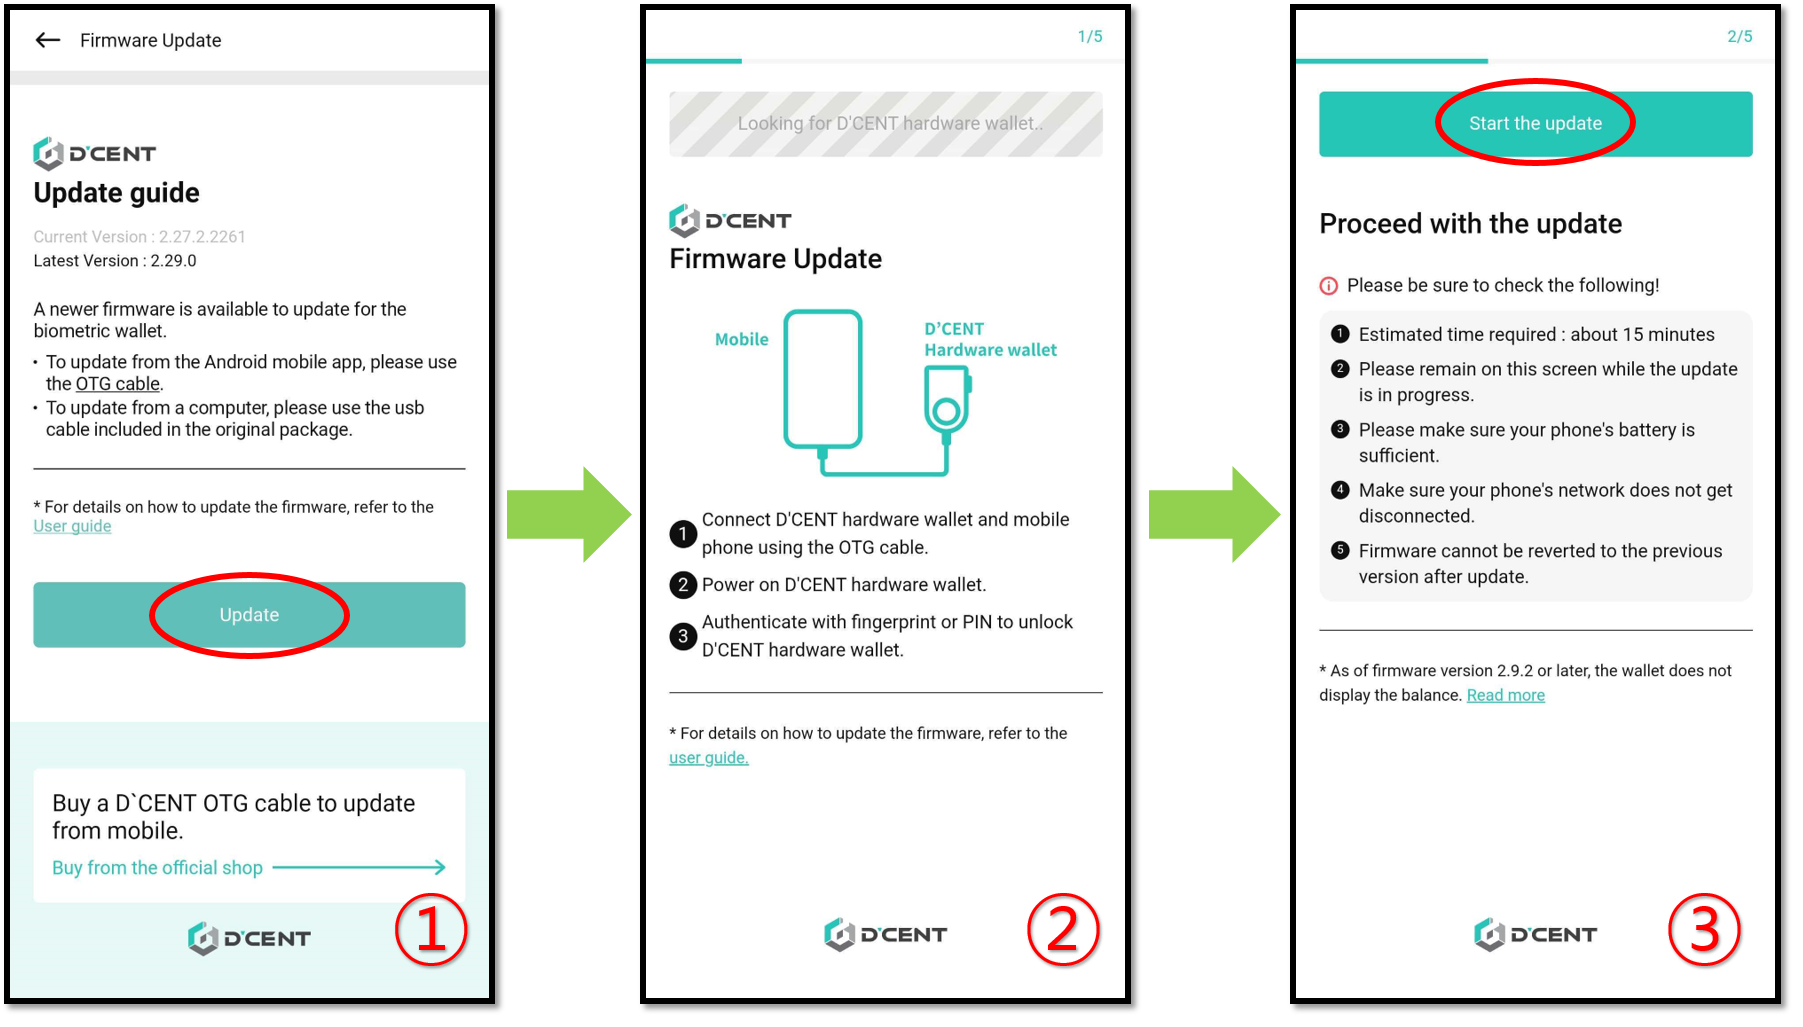
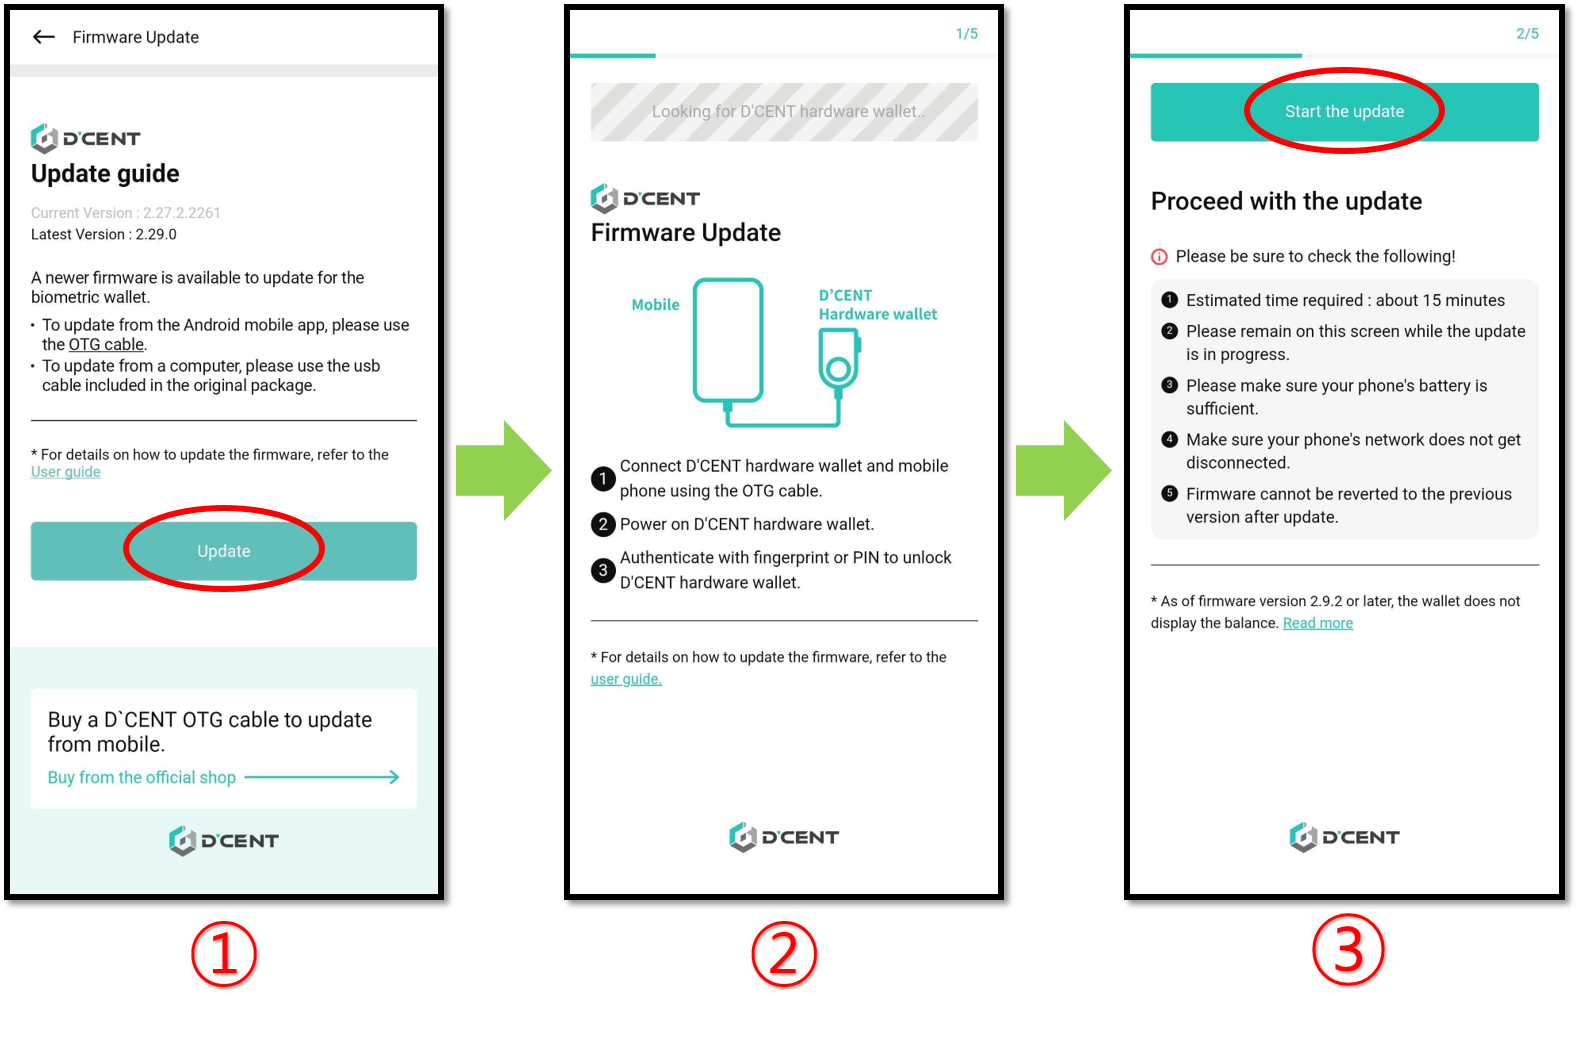
GITBOOK-562: change request with no subject merged in GitBook

diff --git a/biometric-wallet/firmware-update-from-mobile.md b/biometric-wallet/firmware-update-from-mobile.md
@@ -58,7 +58,11 @@ From the Manager Tab, click on **Firmware Update**.
 
 ### Proceed with the firmware update
 
-![](../.gitbook/assets/펌웨어-eng03.png)
+<div align="left">
+
+<img src="../.gitbook/assets/펌웨어-eng03.png" alt="">
+
+</div>
 
 **1.** Click on **"Update"** button.&#x20;
 
@@ -66,7 +70,11 @@ From the Manager Tab, click on **Firmware Update**.
 
 **3.** Click on **"Start the update"** button.&#x20;
 
-![](../.gitbook/assets/펌웨어-eng04.png)
+<div align="left">
+
+<img src="../.gitbook/assets/펌웨어-eng04.png" alt="">
+
+</div>
 
 **4.** Click on **"Reboot in bootloader mode"** button.&#x20;
 
@@ -74,7 +82,11 @@ From the Manager Tab, click on **Firmware Update**.
 
 **6.** Click on **"Keep updating"** button.
 
-![](../.gitbook/assets/펌웨어-eng05.png)
+<div align="left">
+
+<img src="../.gitbook/assets/펌웨어-eng05.png" alt="" width="563">
+
+</div>
 
 **7.** Wait patiently (approximately 10 minutes) for the firmware update to complete. When the firmware update has completed, the Biometric Wallet will automatically reboot to its normal working mode.&#x20;
 
